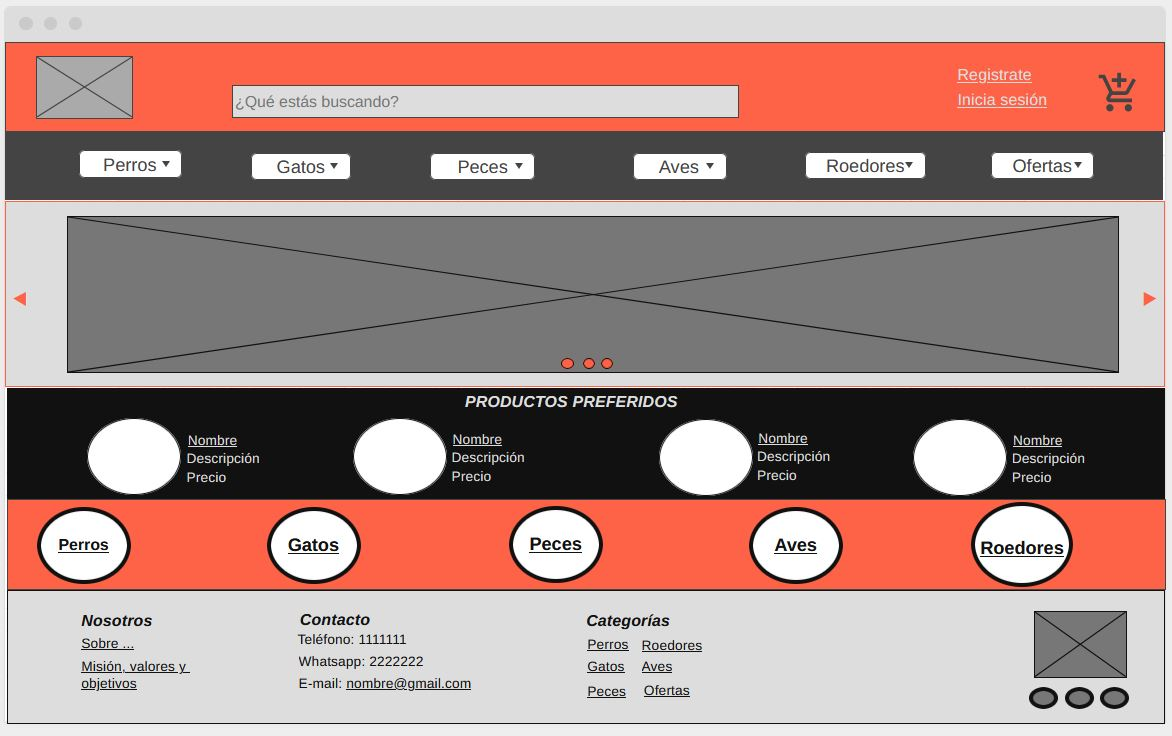
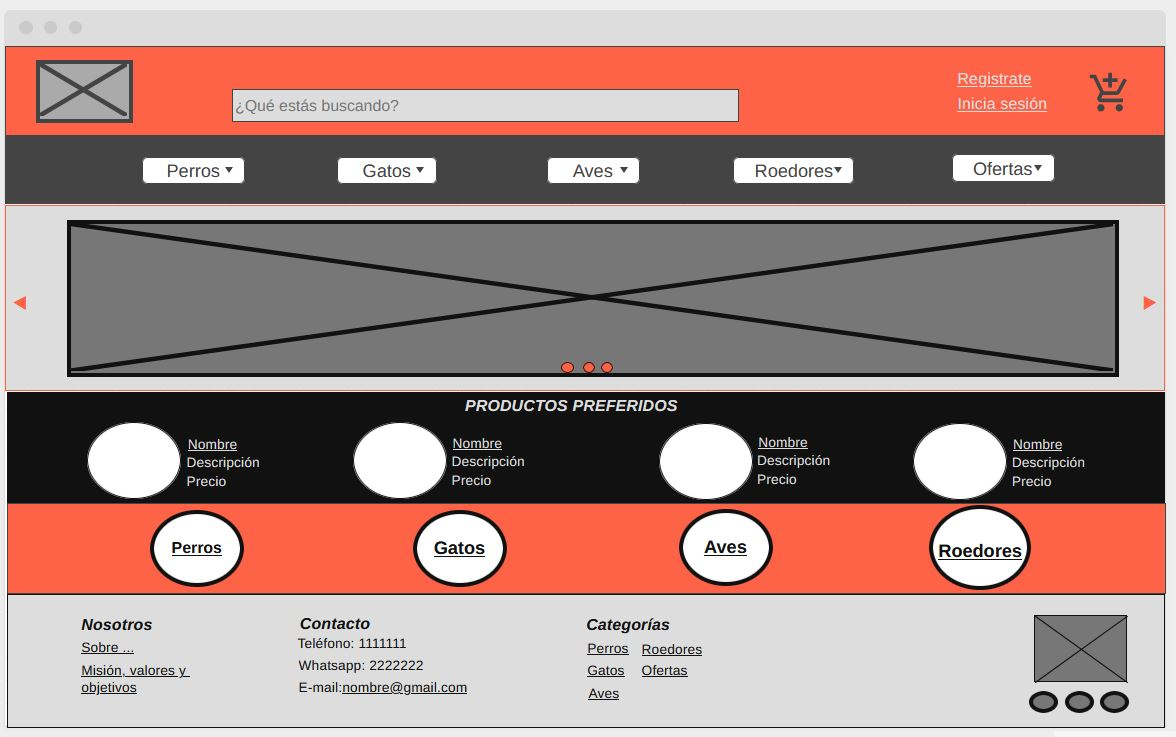
Actualizo wireframe del home y modifico README según lo definido en la reunión

diff --git a/README.md b/README.md
@@ -1,10 +1,20 @@
-<span><h2>Temática del sitio:</h2></span> <span><h3>Venta de alimentos y artículos para mascotas.</h3></span>
+<h1>Patitas y Bigotes</h1>
 
-<span><h2>Público objetivo:</h2></span> <span><h3>Personas con capacidad de compra, mayores de 18 años, con mascota/s.</h3></span>
+<h2>Temática del sitio:</h2> 
+<span>Venta de alimentos y artículos para mascotas.</span>
 
-<h1>Sitios de referencia:</h1>
-<h3>https://cordoba.pluspet.com.ar/</h3>
-<h3>https://www.catycan.com.ar/</h3>
-<h3>https://www.puppis.com.ar/</h3>
-<h3>https://www.petsmart.com/</h3>
-<h3>https://www.kympetshop.com.ar/</h3>
+<h2>Público objetivo:</h2>
+<ul>
+    <li>Personas con capacidad de compra.</li>
+    <li>Personas mayores de 18 años.</li>
+    <li>Personas con mascota/s.</li>
+</ul>
+
+<h2>Sitios de referencia:</h2>
+<ul>
+    <li>https://cordoba.pluspet.com.ar/</li>
+    <li>https://www.catycan.com.ar/</li>
+    <li>https://www.puppis.com.ar/</li>
+    <li>https://www.petsmart.com/</li>
+    <li>https://www.kympetshop.com.ar/</li>
+</ul>
